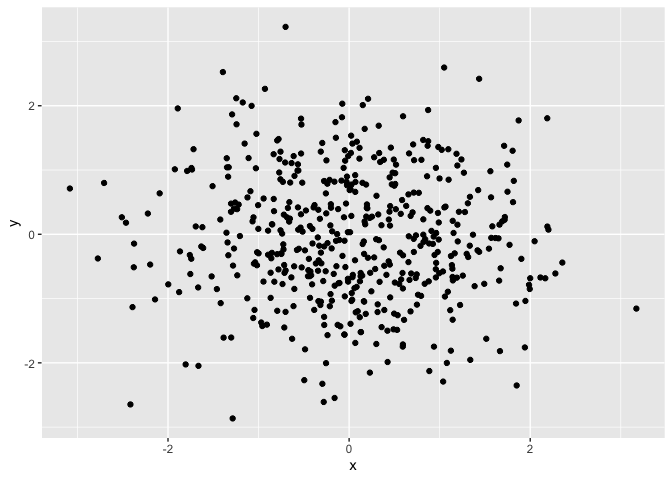
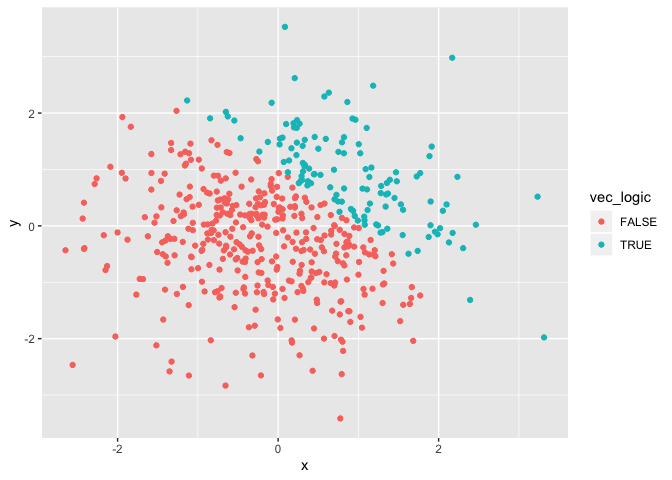
added scatterplots to problem 2
fixed some inline stuff

diff --git a/p8105_hw1_kzw2102.md b/p8105_hw1_kzw2102.md
@@ -33,13 +33,13 @@ levels=pull(problem1_df, var=vec_factor)
 mean(number)
 ```
 
-    ## [1] -0.08500811
+    ## [1] -0.3979661
 
 ``` r
 mean(overzero)
 ```
 
-    ## [1] 0.625
+    ## [1] 0.25
 
 ``` r
 mean(characters)
@@ -82,8 +82,8 @@ y=number*as.numeric(overzero)
 y
 ```
 
-    ## [1] 0.0000000 0.6618681 0.2436437 0.0000000 0.3403266 0.8702333 0.0000000
-    ## [8] 1.2260485
+    ## [1] 0.0000000 0.0000000 0.0000000 0.2499655 0.0000000 0.0000000 1.2203969
+    ## [8] 0.0000000
 
 ``` r
 #convert the logical vector to a factor, and multiple the random sample by the result
@@ -105,8 +105,8 @@ b=number*as.numeric(as.factor(overzero))
 b
 ```
 
-    ## [1] -1.2704845  1.3237361  0.4872875 -1.4381892  0.6806533  1.7404667
-    ## [7] -1.3135115  2.4520969
+    ## [1] -1.5496470 -0.9642672 -0.2006887  0.4999310 -0.8883051 -0.6106249
+    ## [7]  2.4407939 -0.4405588
 
 # Problem 2
 
@@ -122,10 +122,31 @@ problem2_df=tibble(
 )
 ```
 
-## `the size of the dataset (using nrow and ncol). * the mean, median, and standard deviation of x * the proportion of cases for which x+y>1`
+In this data set, there are `<(nrow)>` rows (or number of subjects) and
+`<(ncol)>` columns, each denoting a different kind of variable. The mean
+of of our sample is `<mean(x)>`, the median is `<median(x)>`, and the
+standard deviation is `<sd(x)>`. The proportion of cases for which
+x+y\>1 is `(x+y>1)/(x+y)`.
+
+## scatterplots
 
 ``` r
-ggplot(problem2_df, aes(x=x, y=y)) + geom_point()
+#scatterplot of the logic variables
+ggplot(problem2_df, aes(x=x, y=y, color=vec_logic)) + geom_point()
 ```
 
 ![](p8105_hw1_kzw2102_files/figure-gfm/unnamed-chunk-4-1.png)<!-- -->
+
+``` r
+#scatterplot of numeric variable
+ggplot(problem2_df, aes(x=x, y=y, color=a)) + geom_point()
+```
+
+![](p8105_hw1_kzw2102_files/figure-gfm/unnamed-chunk-4-2.png)<!-- -->
+
+``` r
+#scatterplot of factor variables
+ggplot(problem2_df, aes(x=x, y=y, color=b)) + geom_point()
+```
+
+![](p8105_hw1_kzw2102_files/figure-gfm/unnamed-chunk-4-3.png)<!-- -->
